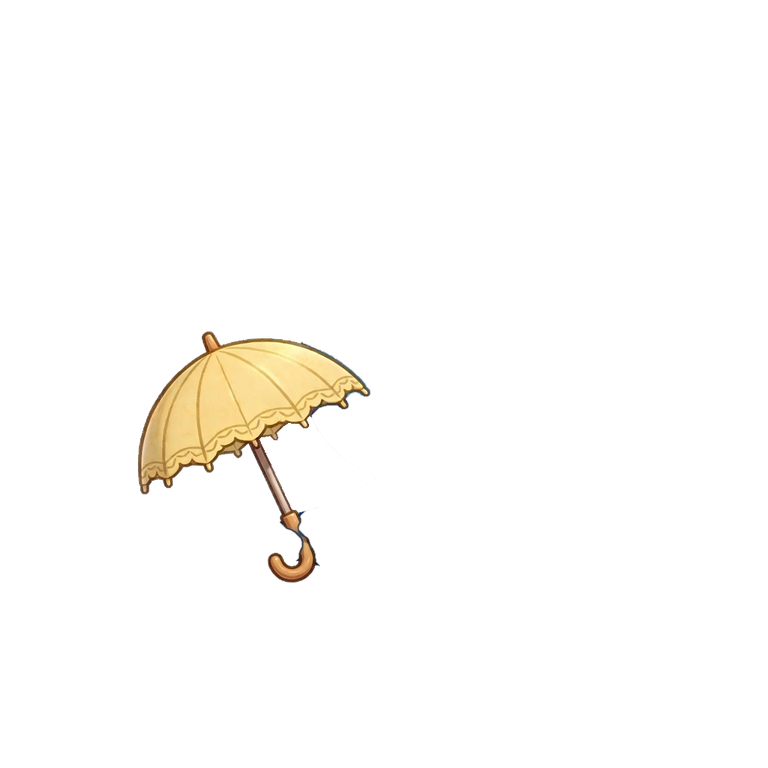
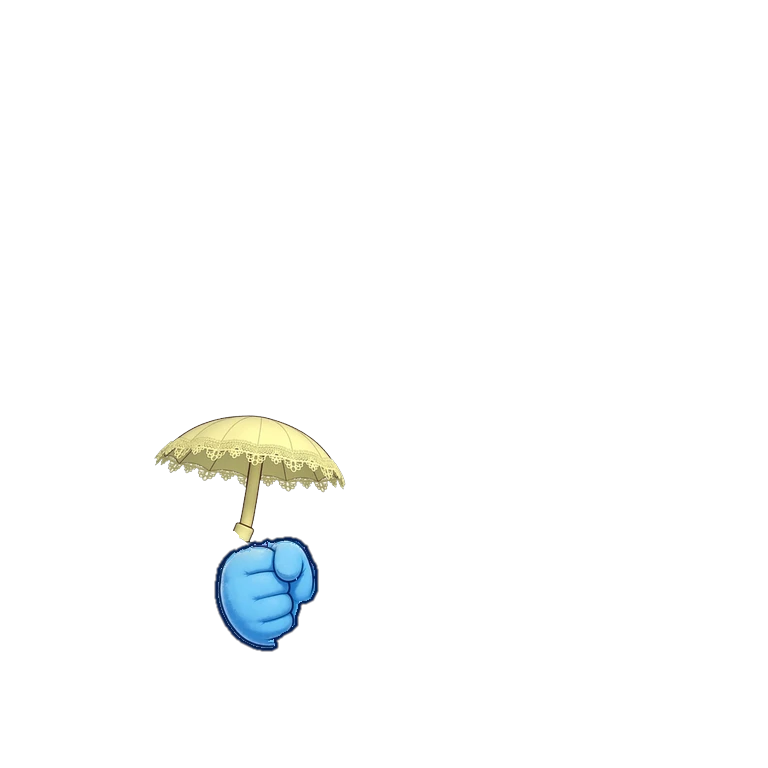
Pi: bàn tay chuẩn cho món cầm tay — Muse chỉ vẽ món, build đặt 1 nắm tay Pi chuẩn đè lên (scripts/pi/hand_std.png)
5 món lên app với tay chuẩn: lì xì tet-nam-pk05, cành mai tet-nam-pk06, khoai lang muadong-nam-pk09, bó hoa khô muadong-nu-pk09, ô che nắng muahe-nu-pk08
(bỏ bàn tay Muse vẽ lỗi, giữ món). npm test 258 đạt; fit_check 0 lỗi (tay chuẩn che 100% mép cắt).

Claude-Session: https://claude.ai/code/session_0163KSZYdzHDud2uG42gs7mp

Changed region(s): [[0.1562, 0.4375, 0.5, 0.8438]]

diff --git a/scripts/pi/build.py b/scripts/pi/build.py
@@ -110,7 +110,11 @@ for side in ("trai", "phai"):
 # 24/10 soát từng món: vệt lá cũ sót xa gốc lá (vùng rộng; KHÔNG áp chung vì vòng hoa có lá thật)
 # 24/10 tối (chủ dự án chốt): món Muse vẽ RIÊNG trên nền trong suốt → chỉ đặt đè lên, KHÔNG chạy bộ cắt lá / vụn (cắt nhầm mũ xanh lá)
 STANDALONE = {  # 25/10: món vẽ riêng đã duyệt ghép
-              "giangsinh-nam-dau01", "giangsinh-nam-dau02", "giangsinh-nam-dau03", "giangsinh-nam-dau04", "giangsinh-nam-dau05", "giangsinh-nam-pk03", "giangsinh-nam-pk12", "giangsinh-nu-dau01", "giangsinh-nu-dau02", "giangsinh-nu-dau04", "giangsinh-nu-pk03", "halloween-nam-dau01", "halloween-nam-dau02", "halloween-nam-dau05", "halloween-nam-pk04", "halloween-nu-dau01", "muadong-nam-dau01", "muadong-nam-dau02", "muadong-nam-dau03", "muadong-nam-dau05", "muadong-nam-pk01", "muadong-nam-pk02", "muadong-nam-pk11", "muadong-nu-dau01", "muadong-nu-dau03", "muadong-nu-dau04", "muadong-nu-pk01", "muadong-nu-pk02", "muahe-nam-dau01", "muahe-nam-dau02", "muahe-nam-dau03", "muahe-nam-dau04", "muahe-nam-pk12", "muahe-nu-dau01", "muahe-nu-dau02", "muahe-nu-dau04", "tet-nam-dau01", "tet-nam-dau02", "tet-nam-dau03", "tet-nam-dau04", "tet-nam-pk03", "tet-nam-pk11", "tet-nu-dau01", "tet-nu-dau02", "tet-nu-dau03", "tet-nu-dau05", "tet-nu-pk04", "tet-nu-pk11", "trungthu-nam-dau01", "trungthu-nam-dau02", "trungthu-nam-dau03", "trungthu-nam-dau04", "trungthu-nam-dau05", "trungthu-nam-pk09", "trungthu-nam-pk10", "trungthu-nam-pk11", "trungthu-nu-dau02", "trungthu-nu-dau05", "trungthu-nu-pk10", "giangsinh-nam-giay01", "muahe-nu-giay02", "giangsinh-nam-giay02", "giangsinh-nam-giay03", "giangsinh-nu-giay01", "giangsinh-nu-giay02", "giangsinh-nu-giay03", "halloween-nam-giay02", "halloween-nam-giay03", "halloween-nu-giay01", "halloween-nu-giay03", "muadong-nam-giay01", "muadong-nam-giay02", "muadong-nam-giay03", "muadong-nu-giay01", "muadong-nu-giay03", "muahe-nam-giay01", "muahe-nam-giay02", "muahe-nu-giay01", "muahe-nu-giay03", "tet-nam-giay01", "tet-nam-giay03", "tet-nu-giay01", "tet-nu-giay02", "tet-nu-giay03", "trungthu-nam-giay01", "trungthu-nam-giay02", "trungthu-nam-giay03", "trungthu-nu-giay01", "trungthu-nu-giay02", "trungthu-nu-giay03", "muahe-nam-giay03", "halloween-nam-giay01", "tet-nam-giay02", "halloween-nu-giay02", "muadong-nu-giay02", "muahe-nam-pk05", "halloween-nu-pk09", "giangsinh-nam-pk07", "muadong-nam-pk05", "muadong-nam-pk10", "muahe-nam-pk07", "giangsinh-nu-pk09", "halloween-nu-pk06", "halloween-nu-pk08", "muadong-nu-pk07", "muahe-nu-pk11", "trungthu-nu-pk03", "trungthu-nu-pk05", "trungthu-nu-pk11"}
+              "giangsinh-nam-dau01", "giangsinh-nam-dau02", "giangsinh-nam-dau03", "giangsinh-nam-dau04", "giangsinh-nam-dau05", "giangsinh-nam-pk03", "giangsinh-nam-pk12", "giangsinh-nu-dau01", "giangsinh-nu-dau02", "giangsinh-nu-dau04", "giangsinh-nu-pk03", "halloween-nam-dau01", "halloween-nam-dau02", "halloween-nam-dau05", "halloween-nam-pk04", "halloween-nu-dau01", "muadong-nam-dau01", "muadong-nam-dau02", "muadong-nam-dau03", "muadong-nam-dau05", "muadong-nam-pk01", "muadong-nam-pk02", "muadong-nam-pk11", "muadong-nu-dau01", "muadong-nu-dau03", "muadong-nu-dau04", "muadong-nu-pk01", "muadong-nu-pk02", "muahe-nam-dau01", "muahe-nam-dau02", "muahe-nam-dau03", "muahe-nam-dau04", "muahe-nam-pk12", "muahe-nu-dau01", "muahe-nu-dau02", "muahe-nu-dau04", "tet-nam-dau01", "tet-nam-dau02", "tet-nam-dau03", "tet-nam-dau04", "tet-nam-pk03", "tet-nam-pk11", "tet-nu-dau01", "tet-nu-dau02", "tet-nu-dau03", "tet-nu-dau05", "tet-nu-pk04", "tet-nu-pk11", "trungthu-nam-dau01", "trungthu-nam-dau02", "trungthu-nam-dau03", "trungthu-nam-dau04", "trungthu-nam-dau05", "trungthu-nam-pk09", "trungthu-nam-pk10", "trungthu-nam-pk11", "trungthu-nu-dau02", "trungthu-nu-dau05", "trungthu-nu-pk10", "giangsinh-nam-giay01", "muahe-nu-giay02", "giangsinh-nam-giay02", "giangsinh-nam-giay03", "giangsinh-nu-giay01", "giangsinh-nu-giay02", "giangsinh-nu-giay03", "halloween-nam-giay02", "halloween-nam-giay03", "halloween-nu-giay01", "halloween-nu-giay03", "muadong-nam-giay01", "muadong-nam-giay02", "muadong-nam-giay03", "muadong-nu-giay01", "muadong-nu-giay03", "muahe-nam-giay01", "muahe-nam-giay02", "muahe-nu-giay01", "muahe-nu-giay03", "tet-nam-giay01", "tet-nam-giay03", "tet-nu-giay01", "tet-nu-giay02", "tet-nu-giay03", "trungthu-nam-giay01", "trungthu-nam-giay02", "trungthu-nam-giay03", "trungthu-nu-giay01", "trungthu-nu-giay02", "trungthu-nu-giay03", "muahe-nam-giay03", "halloween-nam-giay01", "tet-nam-giay02", "halloween-nu-giay02", "muadong-nu-giay02", "muahe-nam-pk05", "halloween-nu-pk09", "muadong-nam-pk09", "muadong-nu-pk09", "muahe-nu-pk08", "tet-nam-pk06", "tet-nam-pk05", "giangsinh-nam-pk07", "muadong-nam-pk05", "muadong-nam-pk10", "muahe-nam-pk07", "giangsinh-nu-pk09", "halloween-nu-pk06", "halloween-nu-pk08", "muadong-nu-pk07", "muahe-nu-pk11", "trungthu-nu-pk03", "trungthu-nu-pk05", "trungthu-nu-pk11"}
+# 26/10 (chủ dự án: "làm sao tốt nhất đi" — Muse vẽ tay hỏng 3 lần): món cầm tay dùng 1 bàn tay chuẩn (nắm tay Pi lấy từ đũa sao halloween-nu-pk06,
+# làm lại viền) đè lên món. Nguồn của các món này = CHỈ món, cán / thân đi qua điểm cầm (265, 590).
+HAND = Image.open(os.path.join(os.path.dirname(os.path.abspath(__file__)), "hand_std.png")).convert("RGBA")
+GRIP = {"muadong-nam-pk09", "muadong-nu-pk09", "muahe-nu-pk08", "tet-nam-pk06", "tet-nam-pk05"}
 SHOE_SCALE = {}  # 25/10: guốc tet-nu-giay02 vẽ lại đúng cỡ
 LEAF_WIDE = {"giangsinh-nam-dau05", "trungthu-nam-dau03", "muahe-nam-dau05", "trungthu-nu-dau02"}
 ARM_HIDE = {"giangsinh-nam-pk07": "trai", "muadong-nam-pk08": "trai", "muadong-nu-pk08": "trai", "muahe-nam-pk05": "trai",
@@ -140,6 +144,8 @@ for it in cat["items"]:
         it = {**it, "slot": "tui", **({"name": TUI[iid]} if TUI[iid] else {})}
     total += put(it["file"], src=s)
     im = Image.open(s).convert("RGBA")
+    if iid in GRIP:  # 26/10: món cầm cán / thân — Muse chỉ vẽ món, build đặt BÀN TAY CHUẨN lên trên (scripts/pi/hand_std.png, nắm ở đầu tay trái buông)
+        im = im.copy(); im.alpha_composite(HAND.resize(im.size, Image.LANCZOS)); total += put(it["file"], im=im, q=90)
     if (it["slot"] in ("tay", "gang") and iid not in STANDALONE) or iid in CLEAN_STRAY_EXTRA:  # 25/10: món cầm tay vẽ riêng (có bàn tay Pi) → không gọt
         a_, n_ = clean_tay(np.asarray(im), (body[..., 3] > 128) if iid not in CLEAN_STRAY_EXTRA else (body[..., 3] > -1))
         if n_ >= 40: im = Image.fromarray(a_); total += put(it["file"], im=im, q=90)
